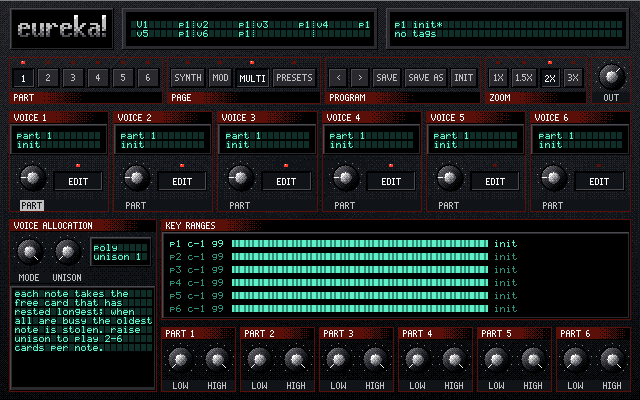
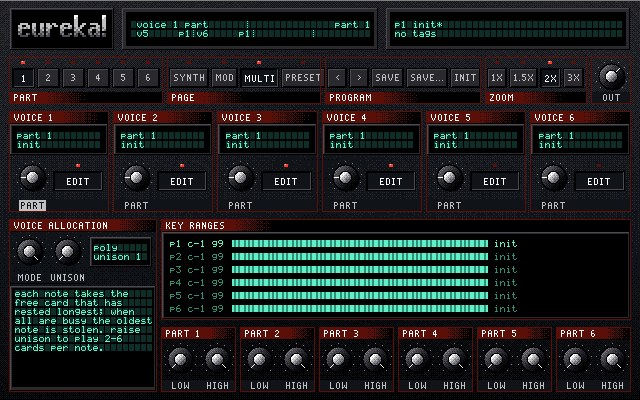
Pixel GUI: roomier panel lettering, round knob caps
Panel text gets 2px letter gaps and shorter labels (ATK/DEC/SUS/REL,
VOICE, LEG, VAR, BAL, SUB LV, OCT, SAVE...) so it no longer looks
squashed at 1.5x; the LCD font is unchanged. The knob centre cap is
now a symmetric round disc with a 1px dark outline, so it reads as a
circle in the middle of the knob. README screenshots refreshed.

diff --git a/plugin/source/PluginEditor.cpp b/plugin/source/PluginEditor.cpp
@@ -510,7 +510,7 @@ namespace ambika_plugin
 
         // Pages.
         {
-            const juce::StringArray labels { "SYNTH", "MOD", "MULTI", "PRESETS" };
+            const juce::StringArray labels { "SYNTH", "MOD", "MULTI", "PRESET" };
             const auto xs = buttonRow (168, 152, labels);
             for (int i = 0; i < 4; ++i)
                 button (xs[(size_t) i].getStart(), by, xs[(size_t) i].getLength(), labels[i], i == page, [this, i] { showPage (i); });
@@ -520,13 +520,13 @@ namespace ambika_plugin
 
         // Program.
         {
-            const auto xs = buttonRow (326, 154, { "<", ">", "SAVE", "SAVE AS", "INIT" });
+            const auto xs = buttonRow (326, 154, { "<", ">", "SAVE", "SAVE...", "INIT" });
             auto at = [&] (int i) { return xs[(size_t) i].getStart(); };
             auto wd = [&] (int i) { return xs[(size_t) i].getLength(); };
             button (at (0), by, wd (0), "<", false, [this] { stepPreset (-1); }, false);
             button (at (1), by, wd (1), ">", false, [this] { stepPreset (1); }, false);
             button (at (2), by, wd (2), "SAVE", false, [this] { quickSave(); }, false);
-            button (at (3), by, wd (3), "SAVE AS", false, [this] { showSaveDialog(); }, false);
+            button (at (3), by, wd (3), "SAVE...", false, [this] { showSaveDialog(); }, false);
             button (at (4), by, wd (4), "INIT", dialog == Dialog::Init, [this] { dialog = Dialog::Init; }, false);
         }
         sectionBand (326, bandY, 154, "PROGRAM");
@@ -652,15 +652,15 @@ namespace ambika_plugin
                    { range.toRawUTF8(), "RANGE", "rang" }, { tune.toRawUTF8(), "TUNE", "tune" } });
         }
         row (326, 0, "MIXER", "mixer",
-             { { "mix_balance", "BALANCE", "bal" }, { "mix_operator", "XMOD", "xmod" }, { "mix_amount", "AMOUNT", "amt" },
-               { "mix_sub_shape", "SUB", "sub" }, { "mix_sub_level", "SUB LVL", "slvl" }, { "mix_noise", "NOISE", "nois" },
+             { { "mix_balance", "BAL", "bal" }, { "mix_operator", "XMOD", "xmod" }, { "mix_amount", "AMOUNT", "amt" },
+               { "mix_sub_shape", "SUB", "sub" }, { "mix_sub_level", "SUB LV", "slvl" }, { "mix_noise", "NOISE", "nois" },
                { "mix_fuzz", "FUZZ", "fuzz" }, { "mix_crush", "CRUSH", "crsh" } });
 
         const int model = engineValue ("filter_model");
         const int variants = model > 0 ? ambika::plugin::SurgeFilter::NumSubtypes (model) : 0;
         row (kLeft, 1, "FILTER", "filter",
              { { "filter_cutoff", "CUTOFF", "cut" }, { "filter_resonance", "RESO", "res" }, { "filter_mode", "MODE", "mode" },
-               { "filter_model", "MODEL", "modl" }, { "filter_variant", "VARIANT", "var" }, { "filter_env", "ENV 2", "env2" },
+               { "filter_model", "MODEL", "modl" }, { "filter_variant", "VAR", "var" }, { "filter_env", "ENV 2", "env2" },
                { "filter_lfo", "LFO 2", "lfo2" } },
              [&] (const juce::String& id)
              {
@@ -681,8 +681,8 @@ namespace ambika_plugin
             const int x = e == 2 ? kLeft : 282;
             const int r = e == 1 ? 1 : 2;
             row (x, r, "ENVELOPE " + n + " + LFO " + n, "env/lfo " + n,
-                 { { ids[0].toRawUTF8(), "ATTACK", "atk" }, { ids[1].toRawUTF8(), "DECAY", "dec" },
-                   { ids[2].toRawUTF8(), "SUSTAIN", "sus" }, { ids[3].toRawUTF8(), "RELEASE", "rel" },
+                 { { ids[0].toRawUTF8(), "ATK", "atk" }, { ids[1].toRawUTF8(), "DEC", "dec" },
+                   { ids[2].toRawUTF8(), "SUS", "sus" }, { ids[3].toRawUTF8(), "REL", "rel" },
                    { ids[4].toRawUTF8(), "SHAPE", "shap" }, { ids[5].toRawUTF8(), "RATE", "rate" },
                    { ids[6].toRawUTF8(), "SYNC", "sync" } });
         }
@@ -695,8 +695,8 @@ namespace ambika_plugin
         canvas.fill (560, kRowY[2] + 47, 64, 1, D3);
 
         row (kLeft, 3, "PART", "part",
-             { { "part_polyphony", "VOICING", "voic" }, { "part_legato", "LEGATO", "lega" }, { "part_volume", "VOLUME", "vol" },
-               { "part_pan", "PAN", "pan" }, { "part_portamento", "GLIDE", "glid" }, { "part_octave", "OCTAVE", "oct" },
+             { { "part_polyphony", "VOICE", "voic" }, { "part_legato", "LEG", "lega" }, { "part_volume", "VOLUME", "vol" },
+               { "part_pan", "PAN", "pan" }, { "part_portamento", "GLIDE", "glid" }, { "part_octave", "OCT", "oct" },
                { "part_tuning", "TUNE", "tune" }, { "part_spread", "SPREAD", "sprd" } });
 
         // Scope: the waveform, curve or response of the section being edited.

diff --git a/plugin/source/PixelGfx.cpp b/plugin/source/PixelGfx.cpp
@@ -250,7 +250,7 @@ namespace ambika_plugin::pixel
                 for (int b = 0; b < g.width; ++b)
                     if ((g.rows[(size_t) i] >> b) & 1)
                         put (x + b, y + i, ink);
-            x += g.width + 1;
+            x += g.width + 2;
         }
     }
 
@@ -258,8 +258,8 @@ namespace ambika_plugin::pixel
     {
         int width = 0;
         for (auto c : s)
-            width += glyph7 (c).width + 1;
-        return std::max (0, width - 1);
+            width += glyph7 (c).width + 2;
+        return std::max (0, width - 2);
     }
 
     void Canvas::vfd (int x, int y, const juce::String& line0, const juce::String& line1, int columns, int k)
@@ -435,10 +435,15 @@ namespace ambika_plugin::pixel
             return d > (r - 1) * (r - 1) ? (int) BLK : ramp ({ BLK, D1, D2, D3, MID }, 0.42 - (dx + dy) / (2.6 * r), cx + dx, cy + dy);
         });
         const double capScale = 15.0 * capR / 7.0;
-        circle (cx, cy, capR, [&] (int dx, int dy, int d)
+        // Cap: a symmetric pixel disc (radius capR + 0.5) with a 1px dark rim, so it
+        // reads as a round circle in the middle of the knob.
+        const double capIn = (capR - 0.5) * (capR - 0.5), capOut = (capR + 0.5) * (capR + 0.5);
+        circle (cx, cy, capR + 1, [&] (int dx, int dy, int d)
         {
-            if (d > (capR - 1) * (capR - 1))
-                return (int) D3;
+            if (d > capOut)
+                return -1;
+            if (d > capIn)
+                return (int) BLK;
             return enabled ? ramp ({ D3, MID, LT, WH }, 0.5 - (dx + dy) / capScale, cx + dx, cy + dy)
                            : ramp ({ D2, D3, MID }, 0.5 - (dx + dy) / capScale, cx + dx, cy + dy);
         });
